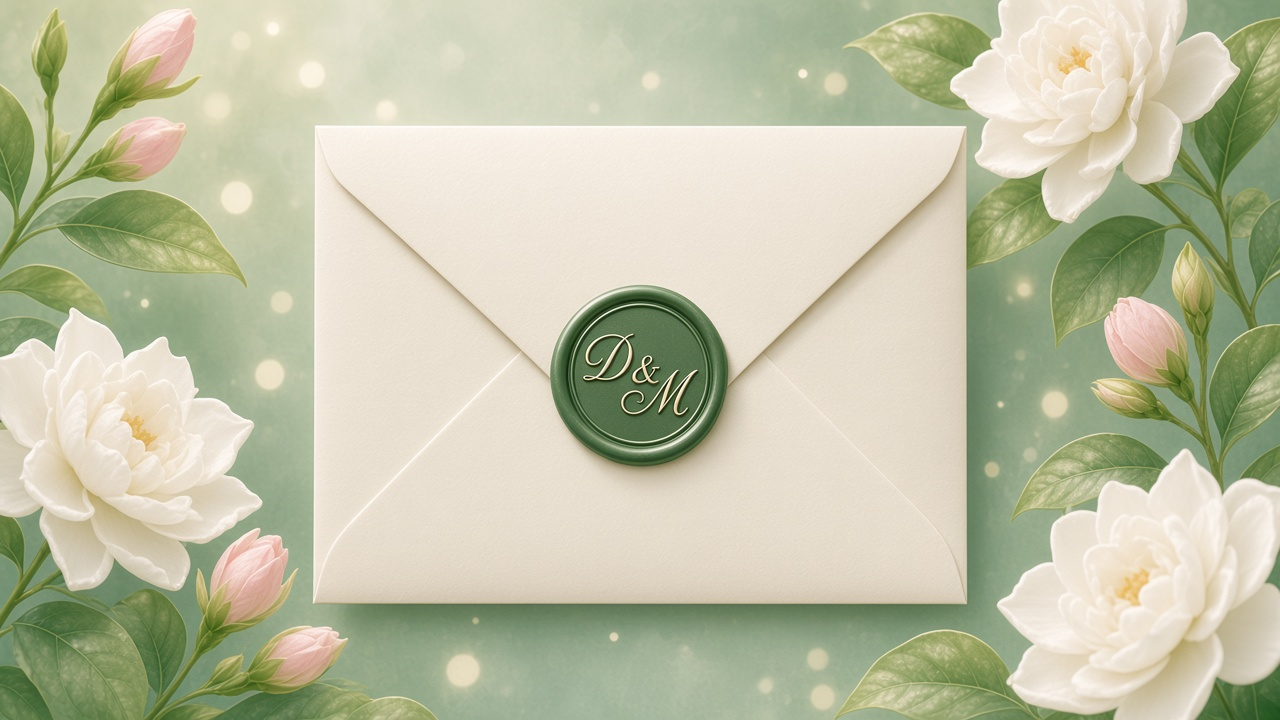
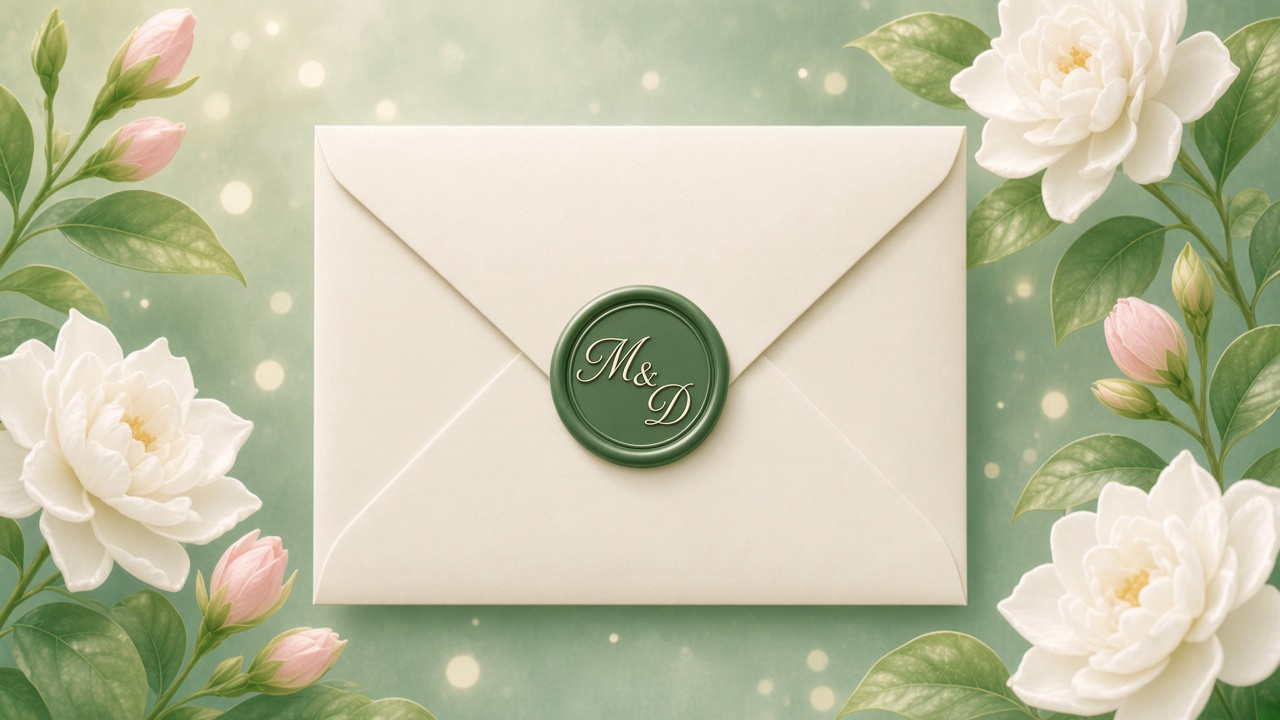
Put M first on the envelope and add a gentle scroll hint.

diff --git a/src/components/OpeningBlessing.tsx b/src/components/OpeningBlessing.tsx
@@ -27,6 +27,24 @@ export function OpeningBlessing() {
       <motion.blockquote className="ayah" {...fade(0.32)}>
         {wedding.copy.quranVerse}
       </motion.blockquote>
+
+      <motion.a
+        href="#invitation"
+        className="scroll-hint"
+        aria-label="Scroll down"
+        {...fade(0.55)}
+      >
+        <span className="scroll-hint-line" aria-hidden="true" />
+        <svg viewBox="0 0 24 24" fill="none" aria-hidden="true">
+          <path
+            d="M6 9.5 12 15.5 18 9.5"
+            stroke="currentColor"
+            strokeWidth="1.4"
+            strokeLinecap="round"
+            strokeLinejoin="round"
+          />
+        </svg>
+      </motion.a>
     </section>
   );
 }

diff --git a/src/styles/global.css b/src/styles/global.css
@@ -322,6 +322,42 @@ a {
   color: var(--ink);
 }
 
+.scroll-hint {
+  display: flex;
+  flex-direction: column;
+  align-items: center;
+  gap: 0.35rem;
+  margin-top: 1.8rem;
+  color: var(--sage-deep);
+  text-decoration: none;
+  opacity: 0.78;
+}
+
+.scroll-hint-line {
+  width: 1px;
+  height: 1.15rem;
+  background: var(--sage-deep);
+  opacity: 0.45;
+}
+
+.scroll-hint svg {
+  width: 1.35rem;
+  height: 1.35rem;
+  animation: scroll-nudge 1.8s ease-in-out infinite;
+}
+
+@keyframes scroll-nudge {
+  0%,
+  100% {
+    transform: translateY(0);
+    opacity: 0.55;
+  }
+  50% {
+    transform: translateY(6px);
+    opacity: 1;
+  }
+}
+
 .eyebrow,
 .section-title {
   font-family: var(--font-ui);

diff --git a/src/components/InvitationCard.tsx b/src/components/InvitationCard.tsx
@@ -3,7 +3,7 @@ import { Reveal } from "./Reveal";
 
 export function InvitationCard() {
   return (
-    <section className="section invite-card-section" aria-label="Invitation">
+    <section className="section invite-card-section" id="invitation" aria-label="Invitation">
       <Reveal>
         <article className="glass-card invite-card">
           <p className="eyebrow">{wedding.copy.ceremonyTitle}</p>

diff --git a/src/config.ts b/src/config.ts
@@ -7,7 +7,7 @@ export const wedding = {
     displayEn: "Muhammad & Dima",
     displayAr: "محمد و ديما",
     displayArInvite: "محمد وديما",
-    initials: "D & M",
+    initials: "M & D",
   },
   date: {
     iso: "2026-10-10T20:00:00+03:00",
